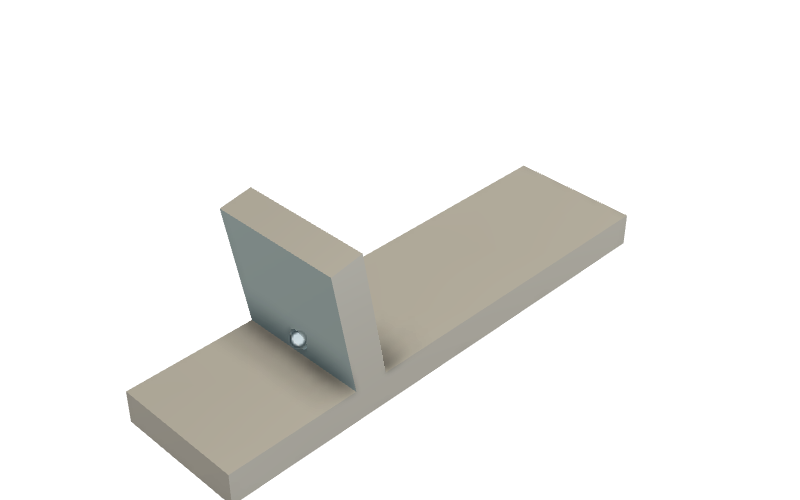
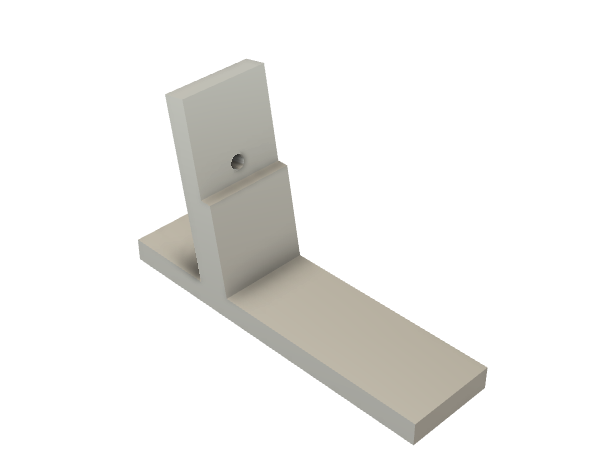
v0 demo stand v2: raise the board seat 20 mm for the 90-deg USB-C plug
The SuperMini's USB-C points at the board's bottom edge and the v1 feet
rested that edge 4 mm off the table, so a 90-deg plug had nowhere to go.
A 16 mm riser under the tab (2 mm thicker than the tab, so the board
edge rests on the step) puts the edge 20 mm up; the connector face is
18 mm off the table in the Fusion assembly.

Rejected: a notch or cutout in the base under the connector (the cable
still has to bend somewhere, and the plug alone is ~10 mm) and lengthening
the toe to keep the same stability margin (CG moves back with the lean as
it goes up, so the 40 mm toe still covers it).

Fusion: foot doc v3, new assembly info-orbs-v0-demo-stand-assy v3 with
the existing hot_info_orbs_v1.1_assembly board model and both feet posed
on the bottom corner holes.

Changed region(s): [[0.15, 0.1244, 0.81, 1.0]]

diff --git a/hardware/v0-demo-stand/README.md b/hardware/v0-demo-stand/README.md
@@ -7,7 +7,7 @@ Disposable: the XIAO board (`hardware/hot-info-orbs-xiao/`) gets a proper
 enclosure and this folder goes with the v1.1 board when it is retired.
 
 **Why the green legs failed:** they grip the board at the board plane, and the
-displays on sockets put the combined centre of gravity ~8 mm in front of
+displays on sockets put the combined center of gravity ~8 mm in front of
 that plane, so the board tips forward unless the cable is weighed down.
 These feet put 40 mm of base in front of the board face and screw the
 board to a tab behind it.
@@ -17,22 +17,38 @@ of the ~8 mm it sits forward; a screwless slot stand would need ~30° of
 recline plus a front lip, and the displays come within 1.5 mm of the
 board's bottom edge, so there is no room for a lip under them anyway.
 
+**Why the board sits 20 mm up (v2):** the SuperMini's USB-C is on the back
+of the board at mid-length and points at the bottom edge; the connector
+face overhangs that edge by 1.3 mm. The first cut of these feet rested the
+board edge 4 mm off the table, which left no room for a 90° plug. Now a
+16 mm riser under the tab holds the edge 20 mm up (connector face 18 mm
+off the table, measured in the Fusion assembly), so the plug body hangs
+below the board and the cable runs out under it toward the heel. The
+riser is 2 mm thicker than the tab, so the board edge rests on that step
+and the screw only clamps, it does not carry the board.
+
 | | |
 |---|---|
-| Foot | 60 x 16 x 20 mm, base 4 mm, tab 4 mm, tab leans back 10° |
+| Foot | 60 x 16 x 36 mm, base 4 mm, riser 6 mm thick x 16 high, tab 4 mm thick x 16 above the step, all leaning back 10° |
 | Toe / heel | 40 mm ahead of the board face, 20 mm behind |
-| Hole | Ø2.6 mm through the tab, 3 mm above the seat, centred on the width — M3 x 8 self-taps |
+| Seat | board bottom edge rests on the riser step, 20 mm above the table |
+| Hole | Ø2.6 mm through the tab, 3 mm above the step, centered on the width — M3 x 8 self-taps |
 | Board end | sits 5 mm inside the foot's outer edge (hole is 3 mm in from the board end, foot is 16 wide) |
 
 **Print:** 2 off, flat on the base, any PLA/PETG, no supports (the 10°
-tab is well under the overhang limit). ~4 g each.
+tab is well under the overhang limit). ~6 g each.
 
-**Fit:** board bottom edge on the base, back face against the tab, one
-M3 x 8 through each tab into the bottom corner hole from behind. The
-SuperMini and its USB-C are mid-board, nothing is near the ends.
+**Fit:** board bottom edge on the step, back face against the tab, one
+M3 x 8 through each tab into the bottom corner hole from behind. Plug the
+90° USB-C in pointing down; the cable exits under the board.
 
-Files: `v0-demo-stand-foot.stl` / `.3mf` (mm), `foot-iso.png`.
-Fusion source: **HOT Projects / info-orbs-v0-demo-stand** (parameters
-BaseT, TabT, TabH, Toe, Heel, FootW, Lean, HoleD, HoleUp drive the
-extrude width and hole; the side profile itself is drawn to numbers, not
-to those parameters — it is a throwaway).
+Files: `v0-demo-stand-foot.stl` / `.3mf` (mm), `foot-iso.png`,
+`assy-side.png` (side view of the Fusion assembly, board lying face-up).
+Fusion source: **HOT Projects / info-orbs-v0-demo-stand** (v3; parameters
+BaseT, TabT, TabH, SeatH, StepD, Toe, Heel, FootW, Lean, HoleD, HoleUp
+document the numbers and drive the extrude width and hole; the side
+profile itself is drawn to numbers, not to those parameters — it is a
+throwaway). Assembly with the board model:
+**HOT Projects / info-orbs-v0-demo-stand-assy** (v3; the board model shows
+the displays unsocketed, 8.5 mm lower than the real board, which does not
+affect the feet).
